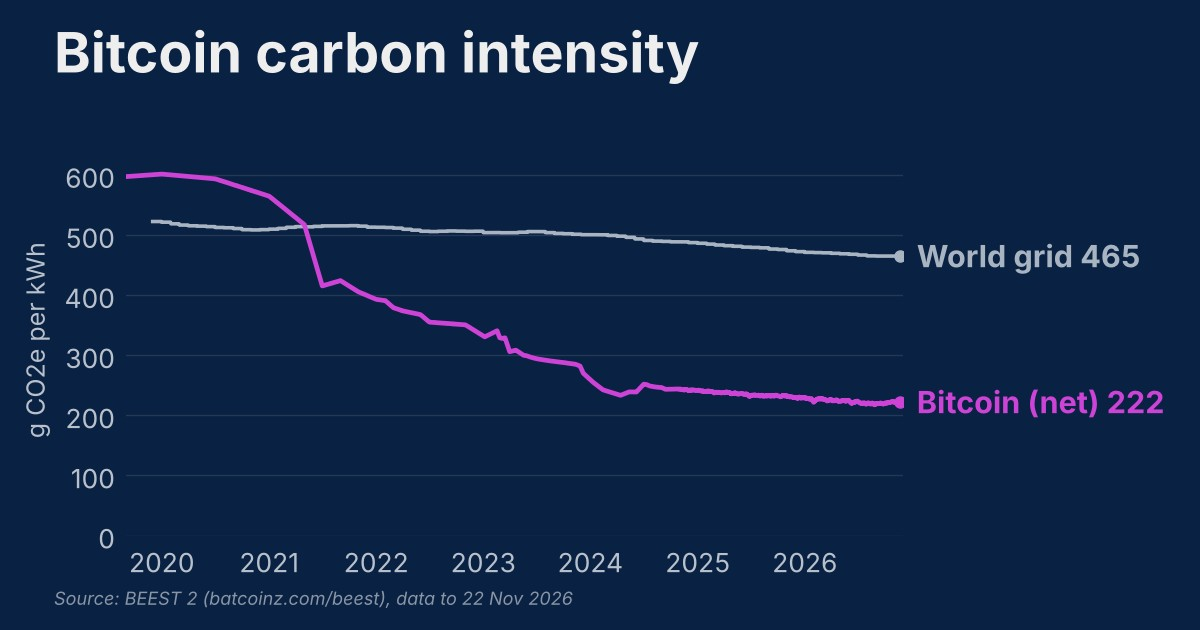
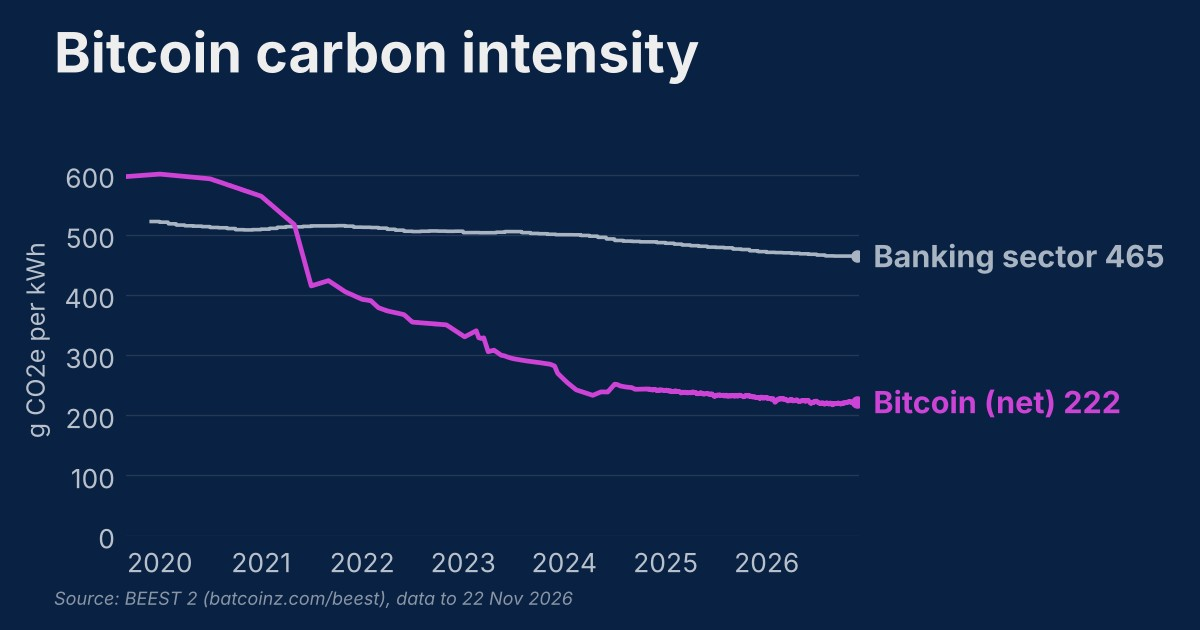
Intensity: label the comparison line 'Banking sector' in the preview image and story note
Claude-Session: https://claude.ai/code/session_01EtHXA5knD94mXs9jpMbPKC

diff --git a/intensity.html b/intensity.html
@@ -13,7 +13,7 @@
 <meta property="og:image" content="https://batcoinz.com/beest/og/intensity.jpg">
 <meta property="og:image:width" content="1200">
 <meta property="og:image:height" content="630">
-<meta property="og:image:alt" content="Line chart of Bitcoin&#x27;s net carbon intensity against the world grid average since 2019">
+<meta property="og:image:alt" content="Line chart of Bitcoin&#x27;s net carbon intensity against the banking sector since 2019">
 <meta name="twitter:card" content="summary_large_image">
 <meta name="twitter:title" content="Bitcoin carbon intensity, updated daily | BEEST 2">
 <meta name="twitter:description" content="Bitcoin's net carbon intensity on 22 Nov 2026: 222 gCO2e/kWh, down 63% in seven years. Live daily chart from BEEST 2, by Daniel Batten.">
@@ -127,7 +127,7 @@
     <h3>Bitcoin Network Emissions Intensity</h3>
     <p>In this chart I track the emissions from each kilowatt-hour the network uses. The dashed line is the carbon intensity of the mining energy mix. The solid line deducts the methane miners destroy, so the gap between the two is that mitigation per kilowatt-hour.</p>
     <ul>
-      <li><b>The story this chart tells</b>This chart takes out how much electricity Bitcoin uses and asks a simpler question: how clean is each kilowatt-hour? Since 2019, Bitcoin's net carbon intensity has fallen by more than half. Over 2019 to 2025, the world grid's fell by about a tenth, from 522 to 472 gCO2e/kWh. So each kilowatt-hour Bitcoin uses has been getting cleaner much faster than the average kilowatt-hour on the world grid. To compare Bitcoin with banks, click "Banking sector" in the key.</li>
+      <li><b>The story this chart tells</b>This chart takes out how much electricity Bitcoin uses and asks a simpler question: how clean is each kilowatt-hour? Since 2019, Bitcoin's net carbon intensity has fallen by more than half. Over 2019 to 2025, the banking sector's fell by about a tenth, from 522 to 472 gCO2e/kWh. So each kilowatt-hour Bitcoin uses has been getting cleaner much faster than each kilowatt-hour the banking sector uses. To compare Bitcoin with banks, click "Banking sector" in the key.</li>
       <li><b>How I calculate it</b>I divide total emissions, and net emissions, by the electricity the network uses each day.</li>
       <li><b>Cambridge's figure is a snapshot</b>Cambridge's 252 gCO2e/kWh comes from a single survey, in December 2025. Since then I move the grid-connected part of mining (91.9%) with the world grid's carbon intensity, and hold off-grid mining as surveyed (<a href="methodology.html#grid-greening-since-december-2025" target="_blank" rel="noopener">Grid greening</a>). The world grid's carbon intensity fell by ~1.7% a year from 2019 to 2025 (522 to 472 gCO2e/kWh), by 2.5% in the 12 months to September 2026, and by 1.6% since the Cambridge survey (~2.1% a year). At the long-run pace that takes ~4 gCO2e/kWh off the mining figure each year until Cambridge's next survey resets it. So far it has moved from 252 to 248.3.</li>
       <li><b>Banking sector</b>Click "Banking sector" in the key to add it. For the banking sector I assume 100% grid electricity at the world average carbon intensity (<a href="https://ember-energy.org/data/monthly-electricity-data/" target="_blank" rel="noopener">Ember</a>, 12 months to each month, from December 2019), which makes the comparison slightly conservative. In reality the banking sector's figure is higher, because banks also burn fossil fuels directly: diesel backup generators at data centers and branches, gas and oil boilers heating offices and branches, on-site gas-fired combined heat and power, company cars and cash-transport vehicles, and business flights. It also leaves out banks' scope 3 emissions from financing fossil fuel industries.</li>

diff --git a/og/make_previews.py b/og/make_previews.py
@@ -62,7 +62,7 @@ ni=[r['intensity_g_kwh']*r['net_mt']/r['gross_mt'] for r in rows]
 gi=[(d,r['grid_g_kwh']) for d,r in zip(D,rows) if r.get('grid_g_kwh')]
 ax.plot([a for a,b in gi],[b for a,b in gi],color=C['bank'],lw=2.6)
 ax.plot(D,ni,color=C['net'],lw=3.4); ax.set_ylim(0,650)
-endlabel(ax,last,gi[-1][1],f"World grid {gi[-1][1]:.0f}",C['bank'],fs=22)
+endlabel(ax,last,gi[-1][1],f"Banking sector {gi[-1][1]:.0f}",C['bank'],fs=22)
 endlabel(ax,last,ni[-1],f"Bitcoin (net) {ni[-1]:.0f}",C['net'],fs=22)
 save(fig,'og-intensity')
 
